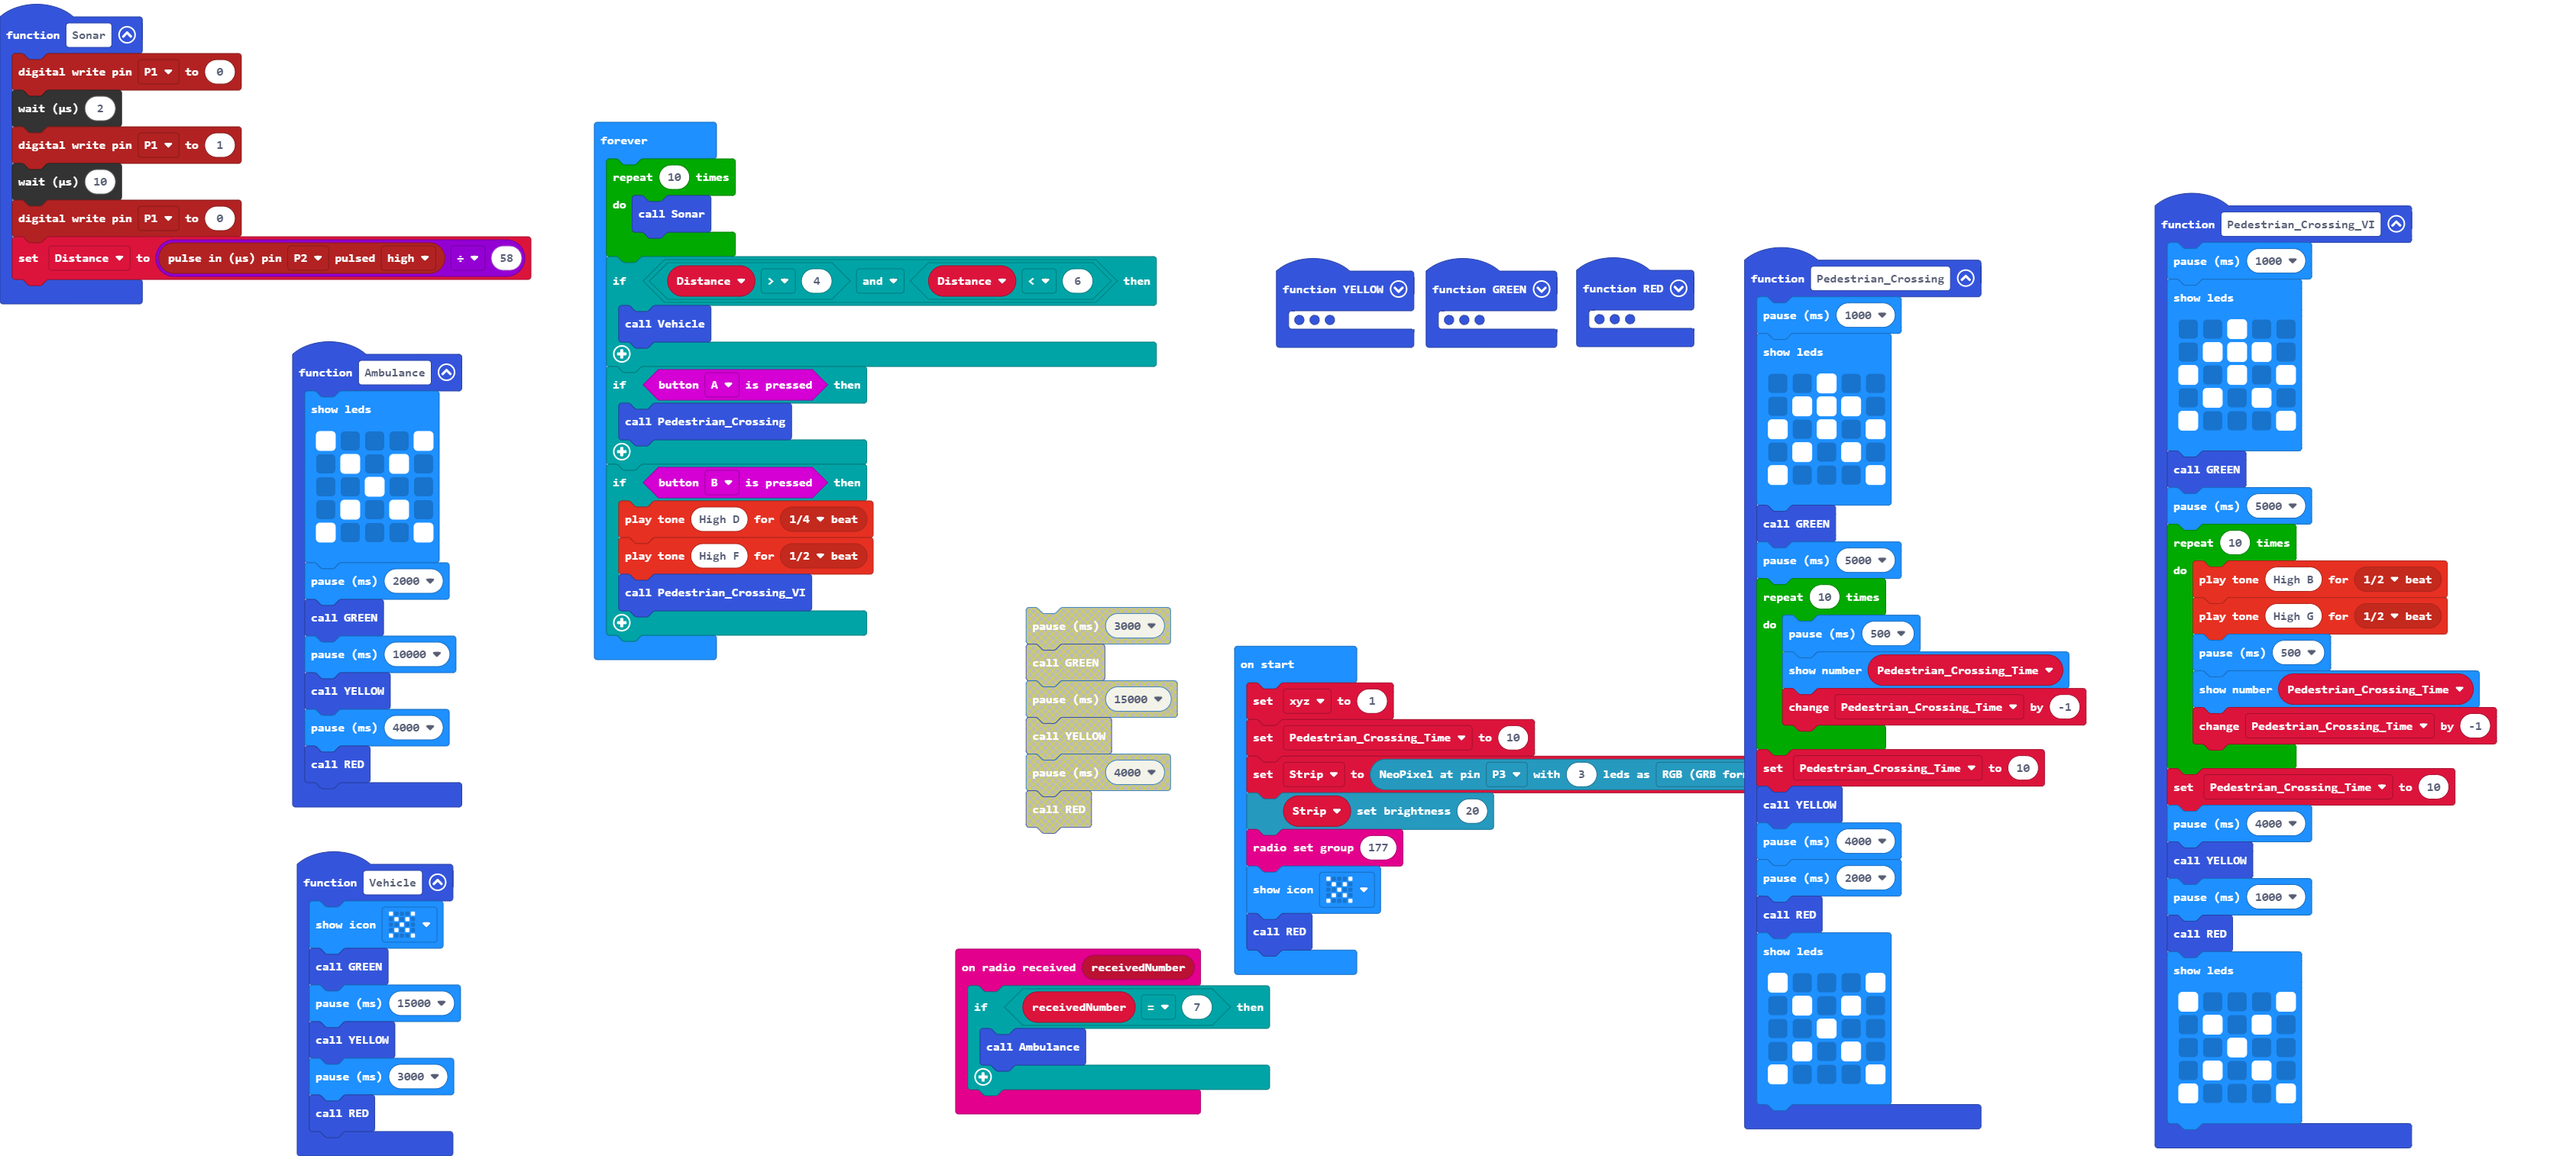
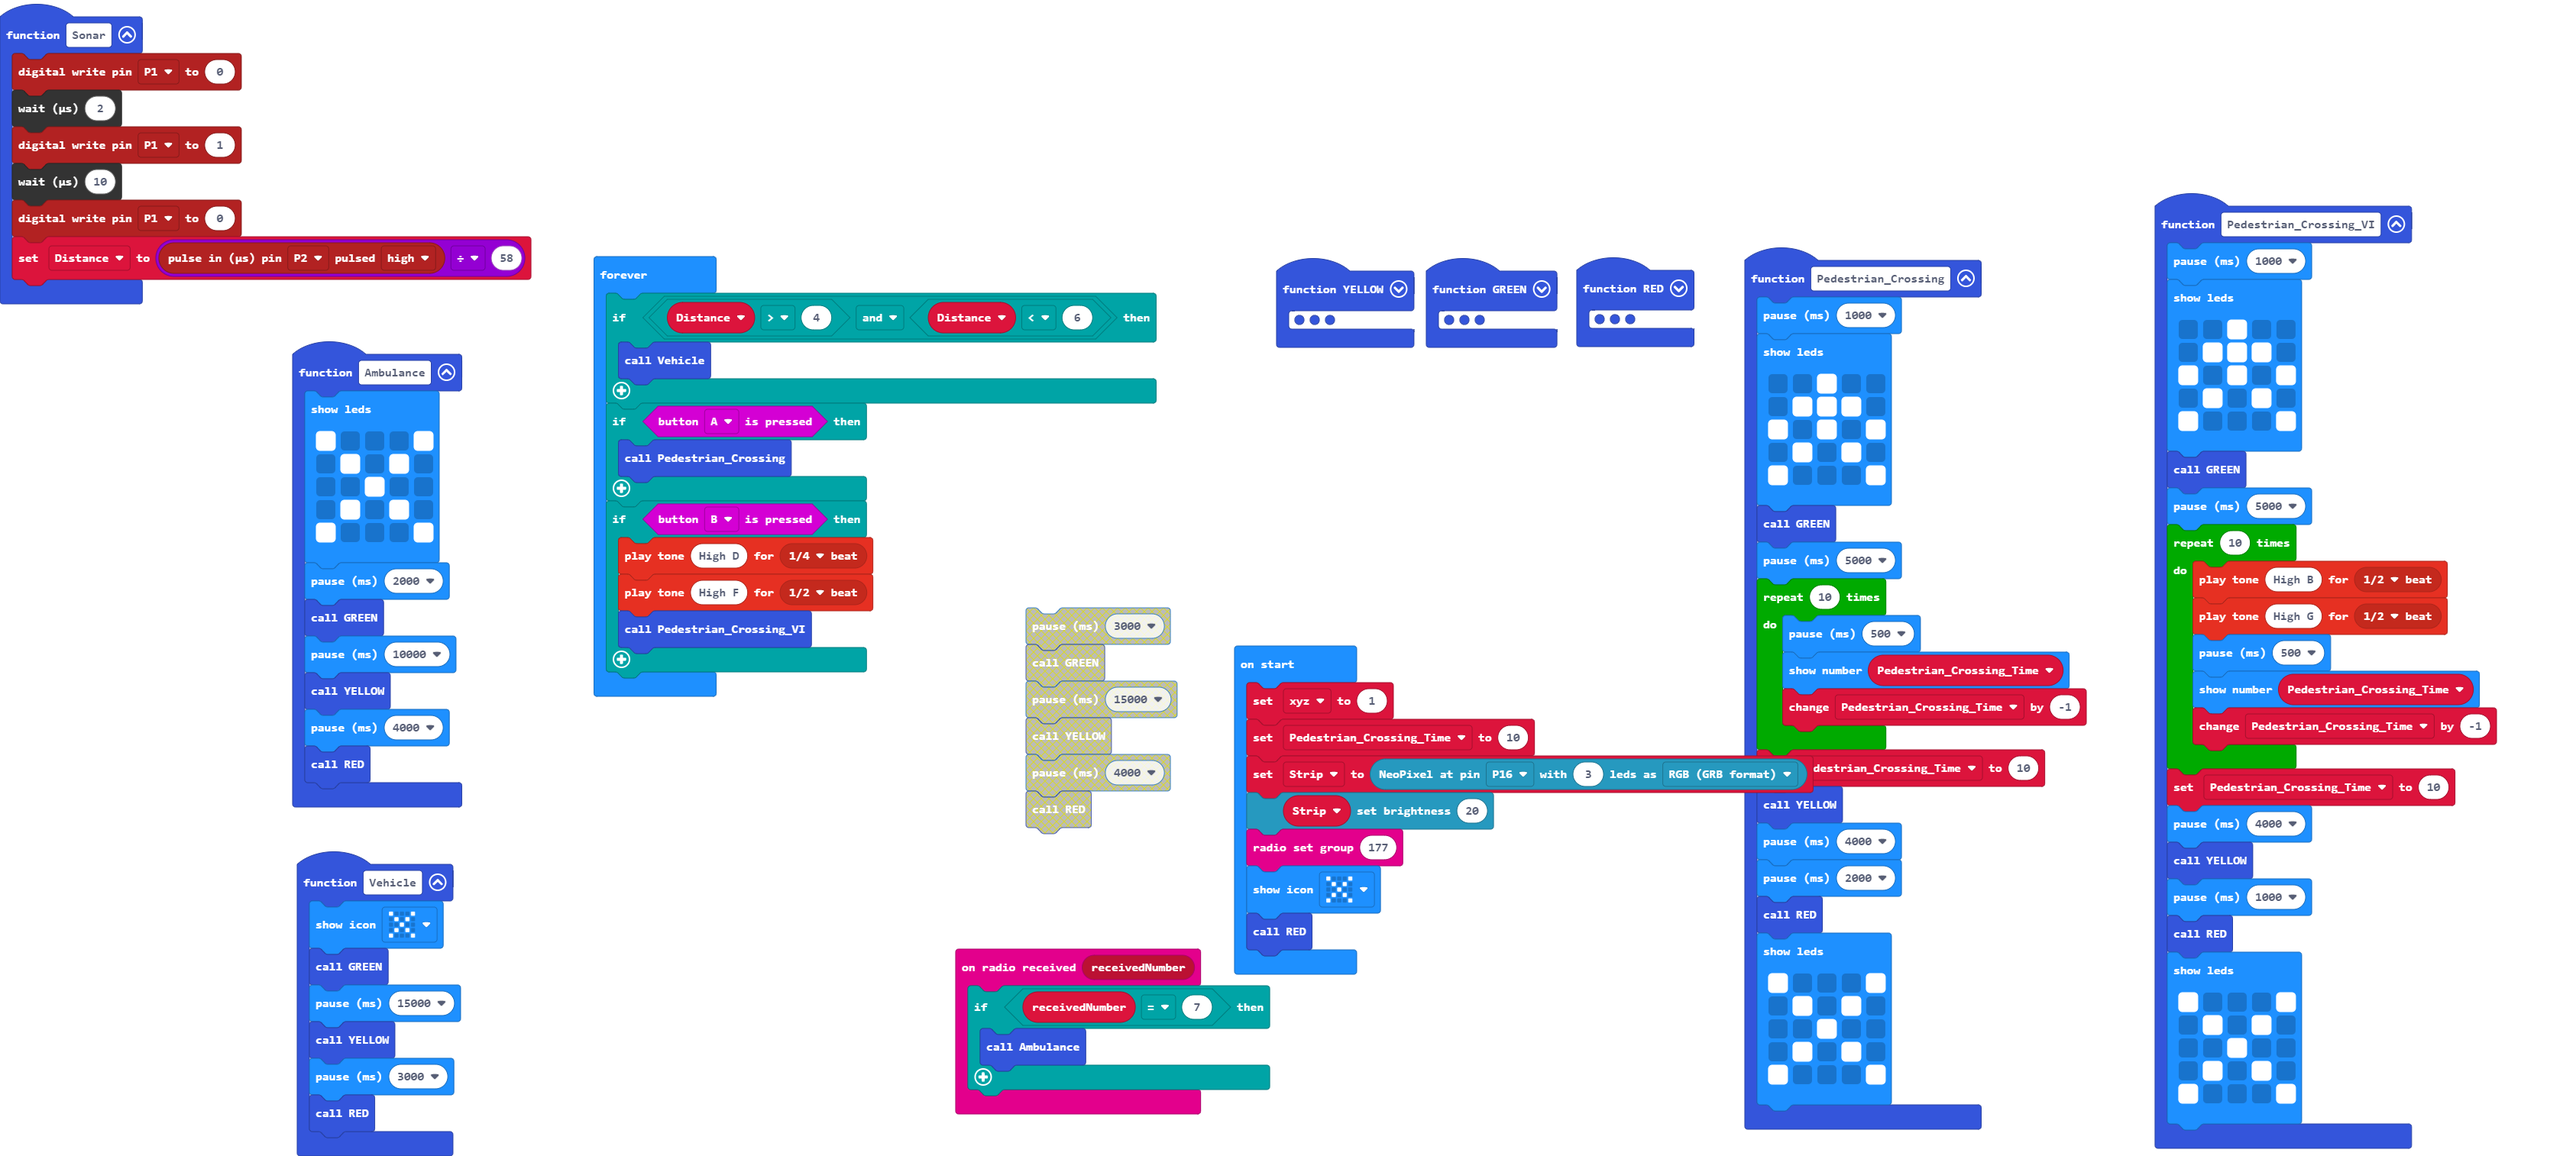
Update main.blocks, main.ts

diff --git a/main.ts b/main.ts
@@ -124,15 +124,12 @@ let Strip: neopixel.Strip = null
 let Pedestrian_Crossing_Time = 0
 let xyz = 1
 Pedestrian_Crossing_Time = 10
-Strip = neopixel.create(DigitalPin.P3, 3, NeoPixelMode.RGB)
+Strip = neopixel.create(DigitalPin.P16, 3, NeoPixelMode.RGB)
 Strip.setBrightness(20)
 radio.setGroup(177)
 basic.showIcon(IconNames.No)
 RED()
 basic.forever(function () {
-    for (let index = 0; index < 10; index++) {
-        Sonar()
-    }
     if (Distance > 4 && Distance < 6) {
         Vehicle()
     }
